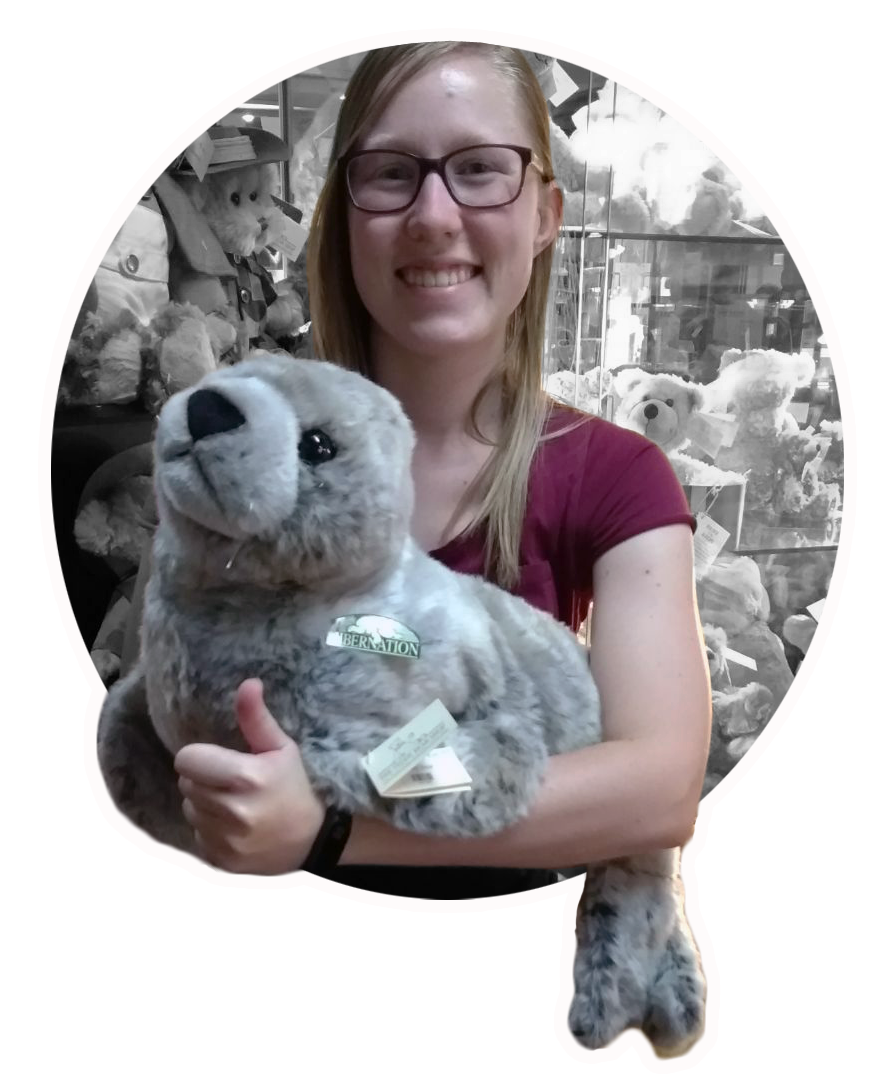
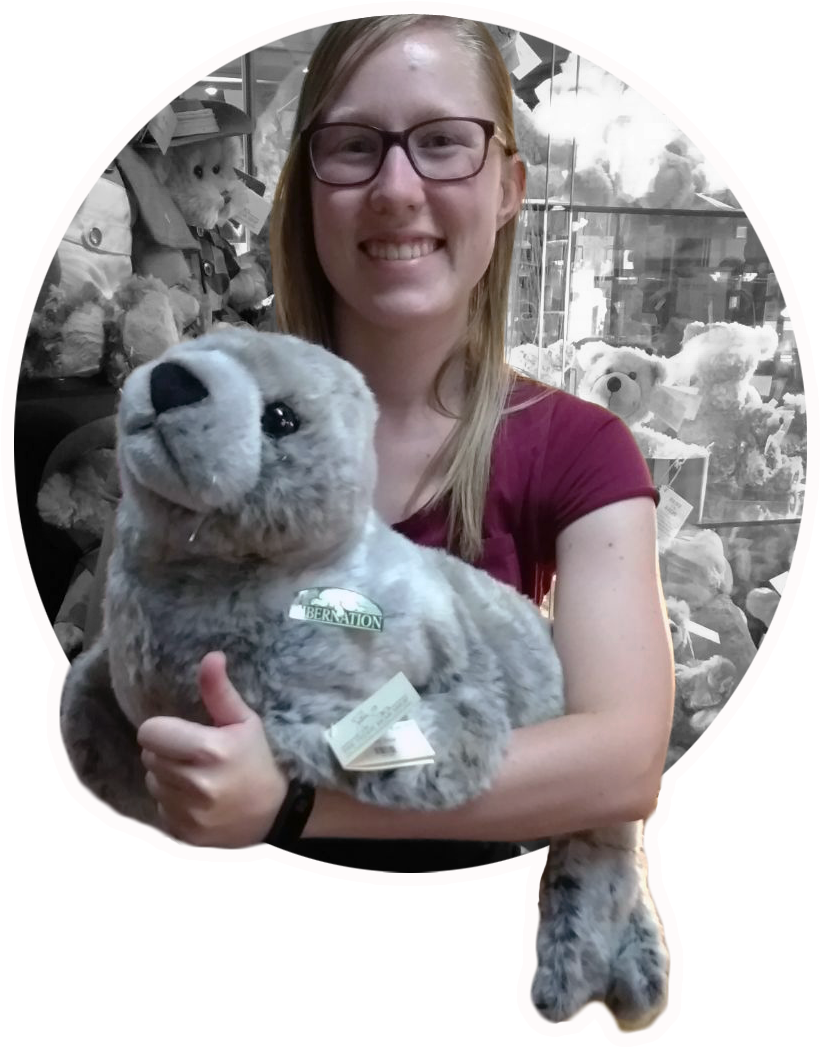
Implemented Jessica's seal of approval

diff --git a/app/assets/stylesheets/quests.css b/app/assets/stylesheets/quests.css
@@ -42,3 +42,14 @@ td.locations, button#locations  {
 .quest-form {
   margin-top: 50px;
 }
+
+h3.seal-of-approval {
+  color: #66ff33;
+  text-align: center;
+}
+
+img.seal-of-approval {
+  display: block;
+  margin: 0 auto;
+  width: 50%;
+}

diff --git a/config/routes.rb b/config/routes.rb
@@ -11,6 +11,7 @@ Rails.application.routes.draw do
 
   resources :quests, only: [:index, :create] do
     patch :complete, on: :member
+    get :seal, on: :collection
   end
 
   resources :sessions, only: [:new, :create, :destroy]

diff --git a/app/controllers/quests_controller.rb b/app/controllers/quests_controller.rb
@@ -24,4 +24,6 @@ class QuestsController < ApplicationController
 
     redirect_to quests_path
   end
+
+  def seal; end
 end
